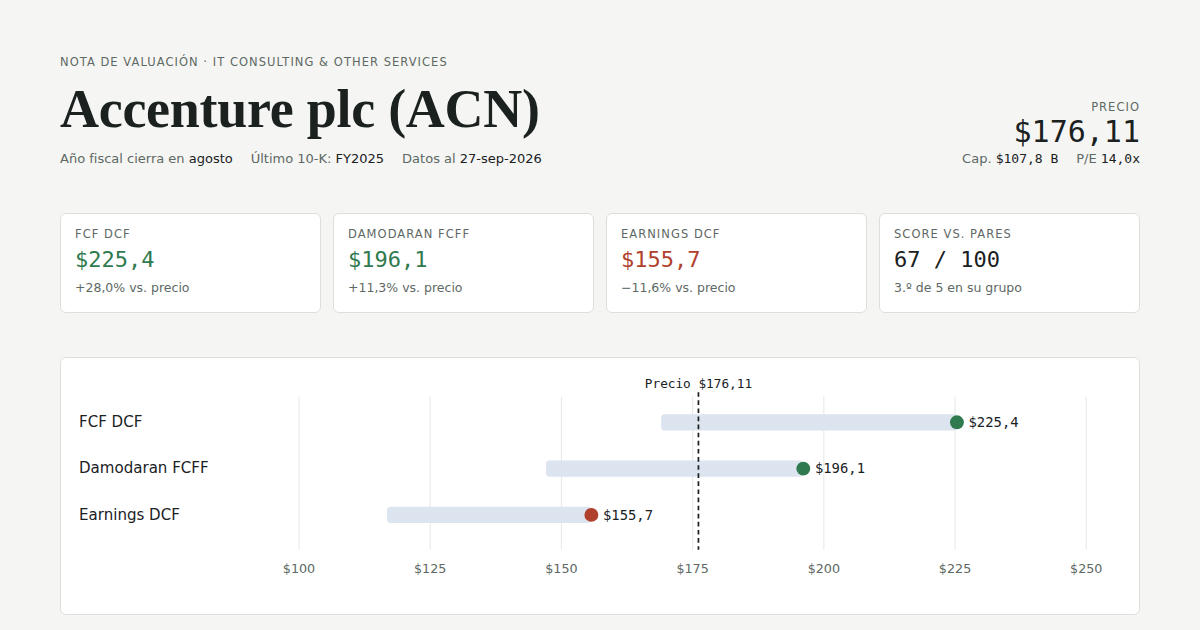
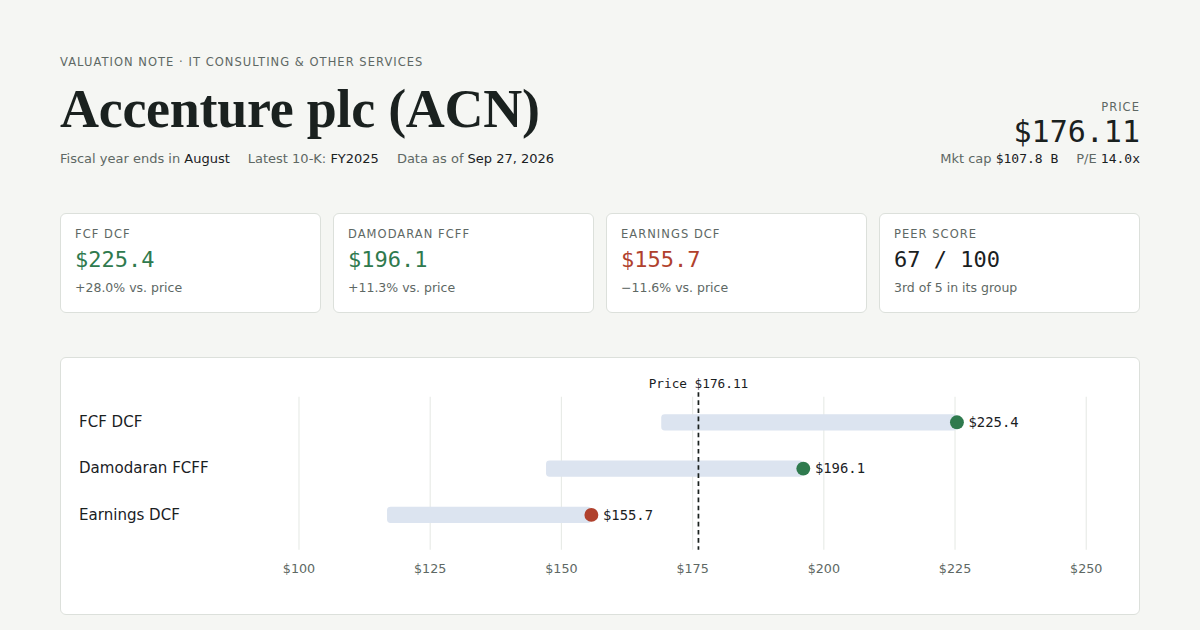
ACN: English version at /acn/, Spanish moved to /acn/es/
English note with English X preview image (og.png) at the main URL;
Spanish note and its preview image at /acn/es/. Language links on both.

Claude-Session: https://claude.ai/code/session_01N6sXCgufwUHhqsWzpkhP7s

diff --git a/acn/es/index.html b/acn/es/index.html
@@ -1,24 +1,24 @@
 <!doctype html>
-<html lang="en">
+<html lang="es">
 <head>
 <meta charset="utf-8">
 <meta name="viewport" content="width=device-width, initial-scale=1">
-<meta name="description" content="Accenture DCF valuation: three models, what the price implies, sensitivity and peer comparison. SEC data as of Sep 27, 2026.">
+<meta name="description" content="Valuación DCF de Accenture: tres modelos, qué descuenta el precio, sensibilidad y comparación contra competidores. Datos SEC al 27-sep-2026.">
 <meta property="og:type" content="article">
-<meta property="og:title" content="Accenture (ACN): DCF valuation note">
-<meta property="og:description" content="Value between $196 and $225 vs. a $176 price. The market is pricing in FCF starting to fall 8% a year.">
-<meta property="og:image" content="https://monkib.github.io/acn/og.png">
+<meta property="og:title" content="Accenture (ACN): nota de valuación DCF">
+<meta property="og:description" content="Valor entre $196 y $225 vs. precio $176. El mercado descuenta que el FCF arranque cayendo 8% anual.">
+<meta property="og:image" content="https://monkib.github.io/acn/es/og.png">
 <meta property="og:image:width" content="1200">
 <meta property="og:image:height" content="630">
-<meta property="og:url" content="https://monkib.github.io/acn/">
+<meta property="og:url" content="https://monkib.github.io/acn/es/">
 <meta name="twitter:card" content="summary_large_image">
-<meta name="twitter:title" content="Accenture (ACN): DCF valuation note">
-<meta name="twitter:description" content="Value between $196 and $225 vs. a $176 price. The market is pricing in FCF starting to fall 8% a year.">
-<meta name="twitter:image" content="https://monkib.github.io/acn/og.png">
-<title>Accenture (ACN) Valuation Note</title>
+<meta name="twitter:title" content="Accenture (ACN): nota de valuación DCF">
+<meta name="twitter:description" content="Valor entre $196 y $225 vs. precio $176. El mercado descuenta que el FCF arranque cayendo 8% anual.">
+<meta name="twitter:image" content="https://monkib.github.io/acn/es/og.png">
+<title>Accenture (ACN) — Nota de valuación</title>
 <link rel="preconnect" href="https://fonts.googleapis.com">
 <link rel="preconnect" href="https://fonts.gstatic.com" crossorigin>
-<link rel="stylesheet" href="https://fonts.googleapis.com/css2?family=Newsreader:opsz,wght@6..72.500;6..72.600&family=IBM+Plex+Sans:wght@400;500;600&family=IBM+Plex+Mono:wght@400;500&display=swap">
+<link rel="stylesheet" href="https://fonts.googleapis.com/css2?family=Newsreader:opsz,wght@6..72,500;6..72,600&family=IBM+Plex+Sans:wght@400;500;600&family=IBM+Plex+Mono:wght@400;500&display=swap">
 <style>
 :root{
   --paper:#F5F6F3; --card:#FFFFFF; --ink:#1A211F; --muted:#5E6864; --faint:#8B9591;
@@ -122,78 +122,78 @@ footer{font-size:12.5px;color:var(--muted);border-top:1px solid var(--rule);padd
 
 
 <div class="wrap">
-<p class="lang">English · <a href="es/">Español</a></p>
-<p class="disclaimer"><b>Disclaimer.</b> This note is for information and education only. It is not investment advice or a recommendation to buy, sell or hold. The models rest on assumptions and may be wrong. Data as of Sep 27, 2026.</p>
+<p class="lang"><a href="../">English</a> · Español</p>
+<p class="disclaimer"><b>Disclaimer.</b> Esta nota es informativa y educativa. No es asesoramiento ni recomendación de compra, venta o tenencia. Los modelos dependen de supuestos y pueden estar equivocados. Datos al 27-sep-2026.</p>
 
 <header>
   <div style="display:flex;flex-direction:column;gap:10px">
-    <div class="eyebrow">Valuation note · IT Consulting &amp; Other Services</div>
+    <div class="eyebrow">Nota de valuación · IT Consulting &amp; Other Services</div>
     <h1>Accenture plc (ACN)</h1>
     <div class="meta">
-      <span>Fiscal year ends in <b>August</b></span>
-      <span>Latest 10-K: <b>FY2025</b></span>
-      <span>Data as of <b>Sep 27, 2026</b></span>
+      <span>Año fiscal cierra en <b>agosto</b></span>
+      <span>Último 10-K: <b>FY2025</b></span>
+      <span>Datos al <b>27-sep-2026</b></span>
     </div>
   </div>
   <div class="quote">
-    <span class="eyebrow">Price</span>
-    <span class="px num">$176.11</span>
-    <span class="meta" style="justify-content:flex-end"><span>Mkt cap <b class="num">$107.8 B</b></span><span>P/E <b class="num">14.0x</b></span></span>
+    <span class="eyebrow">Precio</span>
+    <span class="px num">$176,11</span>
+    <span class="meta" style="justify-content:flex-end"><span>Cap. <b class="num">$107,8 B</b></span><span>P/E <b class="num">14,0x</b></span></span>
   </div>
 </header>
 
 <section>
-  <p class="lede">The cash-flow models put value between <b class="num">$196</b> and <b class="num">$225</b>, 11% to 28% above the price. The earnings model gives <b class="num">$156</b>, 12% below. At the model's WACC, today's price implies free cash flow <b>starting to fall 8% a year</b> and only converging to +2.5% by year five. Over the last decade FCF grew 11.4% a year, and its worst year was −5.8% (FY2024). Net cash on the balance sheet, 1.4x earnings-to-cash conversion and the highest ROIC in its peer group.</p>
+  <p class="lede">Los modelos de flujo de caja ubican el valor entre <b class="num">$196</b> y <b class="num">$225</b>, entre 11% y 28% sobre el precio. El modelo por ganancias da <b class="num">$156</b>, 12% abajo. Con el WACC del modelo, el precio actual descuenta que el flujo de caja libre <b>arranque cayendo 8% anual</b> y recién converja a +2,5% al quinto año. En la última década el FCF creció 11,4% anual y su peor año fue −5,8% (FY2024). Balance con caja neta, conversión de ganancias a caja de 1,4x y el mayor ROIC de su grupo.</p>
   <div class="thesis">
-    <div class="kpi"><span class="eyebrow">FCF DCF</span><span class="v num pos">$225.4</span><span class="d">+28.0% vs. price</span></div>
-    <div class="kpi"><span class="eyebrow">Damodaran FCFF</span><span class="v num pos">$196.1</span><span class="d">+11.3% vs. price</span></div>
-    <div class="kpi"><span class="eyebrow">Earnings DCF</span><span class="v num neg">$155.7</span><span class="d">−11.6% vs. price</span></div>
-    <div class="kpi"><span class="eyebrow">Peer score</span><span class="v num">67 / 100</span><span class="d">3rd of 5 in its group</span></div>
+    <div class="kpi"><span class="eyebrow">FCF DCF</span><span class="v num pos">$225,4</span><span class="d">+28,0% vs. precio</span></div>
+    <div class="kpi"><span class="eyebrow">Damodaran FCFF</span><span class="v num pos">$196,1</span><span class="d">+11,3% vs. precio</span></div>
+    <div class="kpi"><span class="eyebrow">Earnings DCF</span><span class="v num neg">$155,7</span><span class="d">−11,6% vs. precio</span></div>
+    <div class="kpi"><span class="eyebrow">Score vs. pares</span><span class="v num">67 / 100</span><span class="d">3.º de 5 en su grupo</span></div>
   </div>
 </section>
 
 <section>
   <div class="sec-head">
-    <div class="eyebrow">1 · Valuation</div>
-    <h2>Three models, one value range</h2>
-    <p class="muted">Each bar runs from the margin-of-safety price (−25%) to intrinsic value. The vertical line is the current price.</p>
+    <div class="eyebrow">1 · Valuación</div>
+    <h2>Tres modelos, una zona de valor</h2>
+    <p class="muted">Cada barra va del precio con margen de seguridad (−25%) al valor intrínseco. La línea vertical es el precio.</p>
   </div>
   <div class="card">
     <svg id="range" viewBox="0 0 900 190" role="img" aria-label="Rango de valor por modelo frente al precio"></svg>
   </div>
   <div class="tbl-wrap card" style="padding:0">
     <table>
-      <thead><tr><th>Model</th><th>Intrinsic value</th><th>With 25% margin</th><th>Upside</th><th>Discount rate</th><th>Initial growth</th><th>Terminal value %</th></tr></thead>
+      <thead><tr><th>Modelo</th><th>Valor intrínseco</th><th>Con margen 25%</th><th>Upside</th><th>Tasa de descuento</th><th>Crecimiento inicial</th><th>% valor terminal</th></tr></thead>
       <tbody>
-        <tr><td class="txt">FCF DCF (= normalized)</td><td>$225.36</td><td>$169.02</td><td><span class="pill pos">+28.0%</span></td><td>8.72% WACC</td><td>5.7%</td><td>74.7%</td></tr>
-        <tr><td class="txt">Damodaran FCFF</td><td>$196.09</td><td>$147.07</td><td><span class="pill pos">+11.3%</span></td><td>8.72% WACC</td><td>5.7%</td><td>54.7%</td></tr>
-        <tr><td class="txt">Earnings DCF</td><td>$155.71</td><td>$116.78</td><td><span class="pill neg">−11.6%</span></td><td>12.0%</td><td>7.8%</td><td>—</td></tr>
+        <tr><td class="txt">FCF DCF (= normalizado)</td><td>$225,36</td><td>$169,02</td><td><span class="pill pos">+28,0%</span></td><td>8,72% WACC</td><td>5,7%</td><td>74,7%</td></tr>
+        <tr><td class="txt">Damodaran FCFF</td><td>$196,09</td><td>$147,07</td><td><span class="pill pos">+11,3%</span></td><td>8,72% WACC</td><td>5,7%</td><td>54,7%</td></tr>
+        <tr><td class="txt">Earnings DCF</td><td>$155,71</td><td>$116,78</td><td><span class="pill neg">−11,6%</span></td><td>12,0%</td><td>7,8%</td><td>—</td></tr>
       </tbody>
     </table>
   </div>
   <div class="two">
     <div class="card" style="display:flex;flex-direction:column;gap:10px">
-      <h3>WACC 8.72%</h3>
+      <h3>WACC 8,72%</h3>
       <div class="tbl-wrap"><table>
         <tbody>
-          <tr><td class="txt">Risk-free rate (10y UST)</td><td>5.18%</td></tr>
-          <tr><td class="txt">Beta · equity risk premium</td><td>0.69 · 5.5%</td></tr>
-          <tr><td class="txt">Cost of equity</td><td>8.98%</td></tr>
-          <tr><td class="txt">After-tax cost of debt</td><td>3.39%</td></tr>
-          <tr><td class="txt">Equity / debt weight</td><td>95.4% / 4.6%</td></tr>
+          <tr><td class="txt">Tasa libre de riesgo (UST 10a)</td><td>5,18%</td></tr>
+          <tr><td class="txt">Beta · prima de riesgo</td><td>0,69 · 5,5%</td></tr>
+          <tr><td class="txt">Costo del equity</td><td>8,98%</td></tr>
+          <tr><td class="txt">Costo de deuda neto de impuestos</td><td>3,39%</td></tr>
+          <tr><td class="txt">Peso equity / deuda</td><td>95,4% / 4,6%</td></tr>
         </tbody>
       </table></div>
     </div>
     <div class="card" style="display:flex;flex-direction:column;gap:10px">
-      <h3>From enterprise value to value per share</h3>
+      <h3>Del valor empresa al valor por acción</h3>
       <div class="tbl-wrap"><table>
         <tbody>
-          <tr><td class="txt">PV of FCF, years 1–5</td><td>$33.5 B</td></tr>
-          <tr><td class="txt">PV of terminal value</td><td>$99.1 B</td></tr>
-          <tr><td class="txt">+ Cash and investments</td><td>$11.5 B</td></tr>
-          <tr><td class="txt">− Total debt</td><td>$5.1 B</td></tr>
-          <tr><td class="txt">− Minority interest</td><td>$1.0 B</td></tr>
-          <tr><td class="txt">÷ Shares</td><td>612 M</td></tr>
+          <tr><td class="txt">VP de los FCF años 1–5</td><td>$33,5 B</td></tr>
+          <tr><td class="txt">VP del valor terminal</td><td>$99,1 B</td></tr>
+          <tr><td class="txt">+ Caja e inversiones</td><td>$11,5 B</td></tr>
+          <tr><td class="txt">− Deuda total</td><td>$5,1 B</td></tr>
+          <tr><td class="txt">− Interés minoritario</td><td>$1,0 B</td></tr>
+          <tr><td class="txt">÷ Acciones</td><td>612 M</td></tr>
         </tbody>
       </table></div>
     </div>
@@ -202,117 +202,117 @@ footer{font-size:12.5px;color:var(--muted);border-top:1px solid var(--rule);padd
 
 <section>
   <div class="sec-head">
-    <div class="eyebrow">2 · What the price implies</div>
-    <h2>The market assumes cash flow will decline</h2>
-    <p class="muted">Reverse DCF: the growth rate that makes each model worth exactly $176.11.</p>
+    <div class="eyebrow">2 · Qué descuenta el precio</div>
+    <h2>El mercado supone una caída del flujo de caja</h2>
+    <p class="muted">DCF inverso: el crecimiento que hace que cada modelo valga exactamente $176,11.</p>
   </div>
   <div class="tbl-wrap card" style="padding:0">
     <table>
-      <thead><tr><th>Model</th><th>Implied growth</th><th>Historical</th><th>Reading</th></tr></thead>
+      <thead><tr><th>Modelo</th><th>Crecimiento implícito</th><th>Histórico</th><th>Lectura</th></tr></thead>
       <tbody>
-        <tr><td class="txt">FCF DCF</td><td><span class="pill neg">−8.0% a year</span></td><td>FCF +11.4% a year 2016–25</td><td class="txt">Declining FCF, converging to +2.5% by year 5</td></tr>
-        <tr><td class="txt">Damodaran FCFF</td><td><span class="pill warn">+2.8% a year</span></td><td>Revenue +9.5% a year, 5y</td><td class="txt">Growth close to inflation</td></tr>
-        <tr><td class="txt">Earnings DCF (12% discount)</td><td><span class="pill warn">+9.7% a year</span></td><td>EPS +7.8% (CAGR used)</td><td class="txt">Somewhat above history</td></tr>
+        <tr><td class="txt">FCF DCF</td><td><span class="pill neg">−8,0% anual</span></td><td>FCF +11,4% anual 2016–25</td><td class="txt">FCF en retroceso, convergiendo a +2,5% al año 5</td></tr>
+        <tr><td class="txt">Damodaran FCFF</td><td><span class="pill warn">+2,8% anual</span></td><td>Ingresos +9,5% anual 5a</td><td class="txt">Crecimiento cercano a la inflación</td></tr>
+        <tr><td class="txt">Earnings DCF (descuento 12%)</td><td><span class="pill warn">+9,7% anual</span></td><td>BPA +7,8% (CAGR usado)</td><td class="txt">Algo por encima del histórico</td></tr>
       </tbody>
     </table>
   </div>
-  <p>The three models read differently because they use different discount rates. At a 12% discount rate, the price requires more earnings growth than the company has delivered. At 8.7%, the price is consistent with declining FCF. The investment question is which of those scenarios is more likely, not which intrinsic value number is right.</p>
+  <p>Los tres modelos dan lecturas distintas porque usan tasas distintas. Con 12% de descuento, el precio exige más crecimiento de ganancias que el histórico. Con 8,7%, el precio es compatible con un FCF en retroceso. La pregunta de inversión es cuál de los dos escenarios es más probable, no qué número de valor intrínseco es el correcto.</p>
 </section>
 
 <section>
   <div class="sec-head">
-    <div class="eyebrow">3 · Sensitivity</div>
-    <h2>Value per share by WACC and terminal growth</h2>
-    <p class="muted">FCF DCF. Green: above the price. Red: below. Outlined: base case (8.5–9% and 2.5%).</p>
+    <div class="eyebrow">3 · Sensibilidad</div>
+    <h2>Valor por acción según WACC y crecimiento terminal</h2>
+    <p class="muted">FCF DCF. Verde: por encima del precio. Rojo: por debajo. Recuadro: caso base (8,5–9% y 2,5%).</p>
   </div>
   <div class="tbl-wrap card" style="padding:0">
     <table class="sens" id="sens"></table>
   </div>
-  <p>With WACC up to 9.5%, value stays above the price across the whole grid. It falls below with a 10% WACC and 1.5% terminal growth, or with an 11% WACC and terminal growth of 2.5% or less.</p>
+  <p>Con WACC de hasta 9,5% el valor queda por encima del precio en toda la grilla. Queda por debajo con WACC de 10% y crecimiento terminal de 1,5%, o con WACC de 11% y crecimiento terminal de 2,5% o menos.</p>
 </section>
 
 <section>
   <div class="sec-head">
     <div class="eyebrow">4 · Cash flow</div>
-    <h2>How the cash is generated</h2>
-    <p class="muted">USD billions, fiscal years. FCF net of stock-based compensation (SBC).</p>
+    <h2>Cómo se genera la caja</h2>
+    <p class="muted">Miles de millones de USD, años fiscales. FCF neto de compensación en acciones (SBC).</p>
   </div>
   <div class="card" style="display:flex;flex-direction:column;gap:10px">
-    <div class="legend"><span><i class="sw" style="background:var(--bar)"></i>Revenue (left axis)</span><span><i class="sw" style="background:var(--bar2)"></i>FCF net of SBC (right axis)</span></div>
+    <div class="legend"><span><i class="sw" style="background:var(--bar)"></i>Ingresos (eje izq.)</span><span><i class="sw" style="background:var(--bar2)"></i>FCF neto de SBC (eje der.)</span></div>
     <svg id="cash" viewBox="0 0 900 260" role="img" aria-label="Ingresos y FCF 2016-2025"></svg>
   </div>
   <div class="tbl-wrap card" style="padding:0">
     <table>
       <thead><tr><th>USD B</th><th>2021</th><th>2022</th><th>2023</th><th>2024</th><th>2025</th></tr></thead>
       <tbody>
-        <tr><td class="txt">Operating cash flow</td><td>8.98</td><td>9.54</td><td>9.52</td><td>9.13</td><td>11.47</td></tr>
-        <tr><td class="txt">− CapEx</td><td>0.58</td><td>0.72</td><td>0.53</td><td>0.52</td><td>0.60</td></tr>
-        <tr><td class="txt">− SBC</td><td>1.34</td><td>1.68</td><td>1.91</td><td>1.94</td><td>2.09</td></tr>
-        <tr><td class="txt"><b>FCF net of SBC</b></td><td>7.05</td><td>7.14</td><td>7.08</td><td>6.67</td><td>8.78</td></tr>
-        <tr><td class="txt">Net income</td><td>5.91</td><td>6.88</td><td>6.87</td><td>7.26</td><td>7.68</td></tr>
+        <tr><td class="txt">Flujo operativo</td><td>8,98</td><td>9,54</td><td>9,52</td><td>9,13</td><td>11,47</td></tr>
+        <tr><td class="txt">− CapEx</td><td>0,58</td><td>0,72</td><td>0,53</td><td>0,52</td><td>0,60</td></tr>
+        <tr><td class="txt">− SBC</td><td>1,34</td><td>1,68</td><td>1,91</td><td>1,94</td><td>2,09</td></tr>
+        <tr><td class="txt"><b>FCF neto de SBC</b></td><td>7,05</td><td>7,14</td><td>7,08</td><td>6,67</td><td>8,78</td></tr>
+        <tr><td class="txt">Utilidad neta</td><td>5,91</td><td>6,88</td><td>6,87</td><td>7,26</td><td>7,68</td></tr>
       </tbody>
     </table>
   </div>
-  <p>An asset-light model: CapEx is under 1% of revenue. The real cost to shareholders is SBC, which rose from $0.8 B to $2.1 B in ten years and now equals 18% of operating cash flow, above the peer median (13%). FCF was flat from 2021 to 2024 and picked up in 2025.</p>
+  <p>Modelo de bajo capital: el CapEx es menor al 1% de los ingresos. El costo real para el accionista es la SBC, que subió de $0,8 B a $2,1 B en diez años y hoy equivale al 18% del flujo operativo, por encima de la mediana del grupo (13%). El FCF estuvo estancado entre 2021 y 2024 y repuntó en 2025.</p>
 </section>
 
 <section>
   <div class="sec-head">
-    <div class="eyebrow">5 · Debt and durability</div>
-    <h2>Net cash and high, declining returns</h2>
+    <div class="eyebrow">5 · Deuda y sostenibilidad</div>
+    <h2>Caja neta y retornos altos, en descenso</h2>
   </div>
   <div class="two">
     <div class="card" style="display:flex;flex-direction:column;gap:10px">
-      <h3>Total debt vs. cash</h3>
-      <div class="legend"><span><i class="sw" style="background:var(--bar)"></i>Cash and investments</span><span><i class="sw" style="background:var(--neg)"></i>Total debt</span></div>
+      <h3>Deuda total vs. caja</h3>
+      <div class="legend"><span><i class="sw" style="background:var(--bar)"></i>Caja e inversiones</span><span><i class="sw" style="background:var(--neg)"></i>Deuda total</span></div>
       <svg id="debt" viewBox="0 0 440 220" role="img" aria-label="Deuda y caja 2016-2025"></svg>
-      <p class="muted" style="font-size:13px">It issued about $5 B of debt in FY2025. It still holds $6.3 B of net cash (net debt/EBITDA −0.58x) and covers its interest 45 times.</p>
+      <p class="muted" style="font-size:13px">En FY2025 emitió cerca de $5 B de deuda. Aun así mantiene caja neta de $6,3 B (deuda neta/EBITDA −0,58x) y cubre sus intereses 45 veces.</p>
     </div>
     <div class="card" style="display:flex;flex-direction:column;gap:10px">
-      <h3>ROIC and operating margin</h3>
-      <div class="legend"><span><i class="sw" style="background:var(--bar2)"></i>ROIC</span><span><i class="sw" style="background:var(--warn)"></i>Operating margin</span></div>
+      <h3>ROIC y margen operativo</h3>
+      <div class="legend"><span><i class="sw" style="background:var(--bar2)"></i>ROIC</span><span><i class="sw" style="background:var(--warn)"></i>Margen operativo</span></div>
       <svg id="roic" viewBox="0 0 440 220" role="img" aria-label="ROIC y margen operativo 2016-2025"></svg>
-      <p class="muted" style="font-size:13px">Operating margin is very stable (12.6–15.2%). ROIC fell from 55% to 30% as invested capital grew with acquisitions; it is still 3.4 times the WACC.</p>
+      <p class="muted" style="font-size:13px">El margen operativo es muy estable (12,6–15,2%). El ROIC bajó de 55% a 30% porque el capital invertido creció con adquisiciones; sigue 3,4 veces por encima del WACC.</p>
     </div>
   </div>
 </section>
 
 <section>
   <div class="sec-head">
-    <div class="eyebrow">6 · Peers</div>
-    <h2>Against its group: IT Consulting &amp; Other Services</h2>
-    <p class="muted">Percentile within the group (100 = best). Small group: 5 companies.</p>
+    <div class="eyebrow">6 · Competidores</div>
+    <h2>Contra su grupo: IT Consulting &amp; Other Services</h2>
+    <p class="muted">Percentil dentro del grupo (100 = mejor). Grupo chico: 5 empresas.</p>
   </div>
   <div class="card scores" id="scores"></div>
   <div class="tbl-wrap card" style="padding:0">
     <table>
-      <thead><tr><th>Company</th><th>Overall</th><th>Debt</th><th>Cash flow</th><th>Durability</th><th>Valuation</th><th>ND/EBITDA</th><th>ROIC 10y</th><th>FCF margin 5y</th><th>FCF yield</th><th>P/E</th><th>Revenue CAGR 5y</th></tr></thead>
+      <thead><tr><th>Empresa</th><th>Global</th><th>Deuda</th><th>Cash flow</th><th>Sostenib.</th><th>Valuación</th><th>DN/EBITDA</th><th>ROIC 10a</th><th>Margen FCF 5a</th><th>FCF yield</th><th>P/E</th><th>CAGR ingresos 5a</th></tr></thead>
       <tbody id="peers"></tbody>
     </table>
   </div>
-  <p>ACN has the highest ROIC and the most stable operating margin in the group, and trades at a lower P/E than the median (14.0x vs. 16.1x). It loses points on SBC and on its recent debt issuance. CTSH and EPAM rank above it overall on better debt and valuation scores.</p>
+  <p>ACN tiene el mayor ROIC y el margen operativo más estable del grupo, y cotiza a un P/E menor que la mediana (14,0x vs. 16,1x). Pierde puntos por la SBC y por la emisión de deuda reciente. CTSH y EPAM quedan arriba en el puntaje global por mejores puntajes en deuda y valuación.</p>
 </section>
 
 <section>
   <div class="sec-head">
-    <div class="eyebrow">7 · Assumptions and limitations</div>
-    <h2>What to keep in mind</h2>
+    <div class="eyebrow">7 · Supuestos y limitaciones</div>
+    <h2>Qué hay que tener en cuenta</h2>
   </div>
   <ul class="notes">
-    <li>75% of the FCF DCF value comes from the terminal value. The result depends heavily on long-term growth (2.5%) and on the WACC.</li>
-    <li>FCF DCF and normalized FCF are identical because depreciation exceeds CapEx, so all CapEx is treated as maintenance.</li>
-    <li>The FCF DCF base is the 3-year average of FCF before interest and net of SBC: $7.6 B.</li>
-    <li>The Earnings DCF uses a fixed 12% rate (risk-free rate rounded up to 6%, plus 6%), stricter than the WACC. That is why it gives the lowest value.</li>
-    <li>The 10-year median ROIC (52%) is inflated by the early years, when invested capital was small. The recent figure (30%) is more representative.</li>
-    <li>The "debt growth vs. EBITDA growth" metric looks very poor because debt started from almost zero. It does not indicate excessive leverage.</li>
-    <li>Dividends paid are missing from SEC data since FY2023 (an accounting tag change). This does not affect the models.</li>
-    <li>Price, beta and market cap are as of Sep 27, 2026 (Yahoo Finance). Financial statements come from 10-K filings with the SEC.</li>
+    <li>El 75% del valor del FCF DCF sale del valor terminal. El resultado depende mucho del crecimiento a largo plazo (2,5%) y del WACC.</li>
+    <li>FCF DCF y FCF normalizado coinciden porque la depreciación supera al CapEx: todo el CapEx se trata como de mantenimiento.</li>
+    <li>La base del FCF DCF es el promedio de 3 años del FCF antes de intereses y neto de SBC: $7,6 B.</li>
+    <li>El Earnings DCF usa una tasa fija de 12% (tasa libre de riesgo redondeada a 6% + 6%), más exigente que el WACC. Por eso da el valor más bajo.</li>
+    <li>El ROIC mediano de 10 años (52%) está inflado por los primeros años, con poco capital invertido. El dato reciente (30%) es más representativo.</li>
+    <li>La métrica "crecimiento de deuda vs. EBITDA" sale muy negativa porque la deuda partió de casi cero. No indica apalancamiento excesivo.</li>
+    <li>Los dividendos pagados no figuran desde FY2023 en los datos de la SEC (cambio de etiqueta contable). No afecta a los modelos.</li>
+    <li>El precio, la beta y la capitalización son del 27-sep-2026 (Yahoo Finance). Los estados financieros salen de los 10-K presentados ante la SEC.</li>
   </ul>
 </section>
 
 <footer>
-  <span>Sources: SEC EDGAR (10-K FY2016–FY2025), Yahoo Finance (price and beta), 10-year UST (^TNX). Own DCF model, data as of Sep 27, 2026.</span>
-  <span>For information only. Not investment advice.</span>
+  <span>Fuentes: SEC EDGAR (10-K FY2016–FY2025), Yahoo Finance (precio y beta), UST 10 años (^TNX). Modelo propio de DCF con datos al 27-sep-2026.</span>
+  <span>Análisis con fines informativos. No es una recomendación de inversión.</span>
 </footer>
 </div>
 
@@ -321,7 +321,7 @@ footer{font-size:12.5px;color:var(--muted);border-top:1px solid var(--rule);padd
 const S={"years":[2016,2017,2018,2019,2020,2021,2022,2023,2024,2025],"revenue":[34.8,36.77,41.6,43.22,44.33,50.53,61.59,64.11,64.9,69.67],"fcf":[3.32,3.66,4.43,4.93,6.42,7.05,7.14,7.08,6.67,8.78],"opm":[0.1382,0.126,0.1404,0.1459,0.1469,0.1508,0.1521,0.1374,0.1479,0.1468],"roic":[1.1143,0.6433,0.7378,0.5587,0.5489,0.4891,0.4757,0.3828,0.29,0.2996],"debt":[0.03,0.03,0.03,0.02,0.06,0.07,0.06,0.15,1.02,5.15],"cash":[4.91,4.13,5.06,6.13,8.51,8.17,7.89,9.05,5.01,11.48]};
 const NS="http://www.w3.org/2000/svg";
 const el=(tag,attrs,parent,text)=>{const e=document.createElementNS(NS,tag);for(const k in attrs)e.setAttribute(k,attrs[k]);if(text!=null)e.textContent=text;parent&&parent.appendChild(e);return e;};
-const fmt=(v,d=1)=>v.toLocaleString("en-US",{minimumFractionDigits:d,maximumFractionDigits:d});
+const fmt=(v,d=1)=>v.toLocaleString("es-AR",{minimumFractionDigits:d,maximumFractionDigits:d});
 
 /* 1. range chart */
 (function(){
@@ -338,7 +338,7 @@ const fmt=(v,d=1)=>v.toLocaleString("en-US",{minimumFractionDigits:d,maximumFrac
     el("text",{x:x(r[2])+10,y:y+4,class:"lbl"},svg,"$"+fmt(r[2]));
   });
   el("line",{x1:x(price),x2:x(price),y1:14,y2:150,stroke:"var(--ink)","stroke-width":1.5,"stroke-dasharray":"4 3"},svg);
-  el("text",{x:x(price),y:10,"text-anchor":"middle",style:"fill:var(--ink);font:500 11px var(--mono)"},svg,"Price $176.11");
+  el("text",{x:x(price),y:10,"text-anchor":"middle",style:"fill:var(--ink);font:500 11px var(--mono)"},svg,"Precio $176,11");
 })();
 
 /* 3. sensitivity */
@@ -346,7 +346,7 @@ const fmt=(v,d=1)=>v.toLocaleString("en-US",{minimumFractionDigits:d,maximumFrac
   const W=[7,7.5,8,8.5,9,9.5,10,11], G=[1.5,2,2.5,3,3.5];
   const M=[[256.1,279.6,308.5,344.5,390.8],[235.4,254.9,278.4,307.1,342.9],[217.9,234.3,253.8,277.2,305.7],[202.9,216.9,233.3,252.7,276.0],[189.8,202.0,216.0,232.3,251.6],[178.5,189.1,201.1,215.1,231.4],[168.4,177.7,188.3,200.3,214.2],[151.5,158.9,167.1,176.3,186.7]];
   const t=document.getElementById("sens"), price=176.11;
-  let h="<thead><tr><th>WACC \\ terminal g</th>"+G.map(g=>"<th>"+fmt(g)+"%</th>").join("")+"</tr></thead><tbody>";
+  let h="<thead><tr><th>WACC \\ g terminal</th>"+G.map(g=>"<th>"+fmt(g)+"%</th>").join("")+"</tr></thead><tbody>";
   M.forEach((row,i)=>{
     h+="<tr><td>"+fmt(W[i])+"%</td>"+row.map((v,j)=>{
       const base=(W[i]===8.5||W[i]===9)&&G[j]===2.5;
@@ -361,7 +361,7 @@ const fmt=(v,d=1)=>v.toLocaleString("en-US",{minimumFractionDigits:d,maximumFrac
   const svg=document.getElementById("cash");
   const L=48,R=852,T=14,B=220,n=S.years.length,bw=(R-L)/n;
   const yL=v=>B-(v/80)*(B-T), yR=v=>B-(v/10)*(B-T);
-  for(let t=0;t<=80;t+=20){el("line",{x1:L,x2:R,y1:yL(t),y2:yL(t),stroke:"var(--grid)"},svg);el("text",{x:L-8,y:yL(t)+4,"text-anchor":"end"},svg,t);el("text",{x:R+8,y:yL(t)+4},svg,fmt(t/8,1).replace(".0",""));}
+  for(let t=0;t<=80;t+=20){el("line",{x1:L,x2:R,y1:yL(t),y2:yL(t),stroke:"var(--grid)"},svg);el("text",{x:L-8,y:yL(t)+4,"text-anchor":"end"},svg,t);el("text",{x:R+8,y:yL(t)+4},svg,fmt(t/8,1).replace(",0",""));}
   S.years.forEach((yr,i)=>{
     const cx=L+bw*i+bw/2;
     el("rect",{x:cx-bw*0.34,y:yL(S.revenue[i]),width:bw*0.32,height:B-yL(S.revenue[i]),fill:"var(--bar)"},svg);
@@ -395,16 +395,16 @@ const fmt=(v,d=1)=>v.toLocaleString("en-US",{minimumFractionDigits:d,maximumFrac
   for(let t=0;t<=1.2001;t+=0.3){el("line",{x1:L,x2:R,y1:y(t),y2:y(t),stroke:"var(--grid)"},svg);el("text",{x:L-6,y:y(t)+4,"text-anchor":"end"},svg,Math.round(t*100)+"%");}
   const path=(arr,col)=>{el("path",{d:arr.map((v,i)=>(i?"L":"M")+x(i)+" "+y(v)).join(" "),fill:"none",stroke:col,"stroke-width":2.2},svg);el("circle",{cx:x(n-1),cy:y(arr[n-1]),r:4,fill:col},svg);};
   el("line",{x1:L,x2:R,y1:y(0.0872),y2:y(0.0872),stroke:"var(--faint)","stroke-dasharray":"3 3"},svg);
-  el("text",{x:L+4,y:y(0.0872)+14},svg,"WACC 8.7%");
+  el("text",{x:L+4,y:y(0.0872)+14},svg,"WACC 8,7%");
   path(S.roic,"var(--bar2)");path(S.opm,"var(--warn)");
   el("text",{x:x(n-1)-6,y:y(S.roic[n-1])-9,"text-anchor":"end",class:"lbl"},svg,"30%");
-  el("text",{x:x(n-1)-6,y:y(S.opm[n-1])+18,"text-anchor":"end",class:"lbl"},svg,"14.7%");
+  el("text",{x:x(n-1)-6,y:y(S.opm[n-1])+18,"text-anchor":"end",class:"lbl"},svg,"14,7%");
   S.years.forEach((yr,i)=>{if(i%3===0||i===n-1)el("text",{x:x(i),y:B+18,"text-anchor":"middle"},svg,"FY"+String(yr).slice(2));});
 })();
 
 /* 6. scores + peers */
 (function(){
-  const sc=[["Overall",67],["Debt",58],["Cash flow",64],["Durability",76],["Valuation",68]];
+  const sc=[["Global",67],["Deuda",58],["Cash flow",64],["Sostenibilidad",76],["Valuación",68]];
   document.getElementById("scores").innerHTML=sc.map(([k,v])=>'<div class="score"><span class="eyebrow">'+k+'</span><span class="num" style="font-size:20px">'+v+'</span><div class="meter"><span style="width:'+v+'%"></span></div></div>').join("");
   const P=[["CTSH","Cognizant",71,87,58,60,78,-0.34,0.215,0.102,0.086,12.6,0.049],["EPAM","EPAM Systems",69,90,37,68,82,-1.97,0.323,0.080,0.072,16.1,0.155],["ACN","Accenture",67,58,64,76,68,-0.58,0.519,0.116,0.081,14.0,0.095],["IT","Gartner",58,50,70,60,50,1.02,0.399,null,null,19.5,0.096],["IBM","IBM",42,28,81,36,22,10.65,0.013,0.170,0.049,20.2,-0.017]];
   const pct=v=>v==null?"—":fmt(v*100)+"%", x=v=>v==null?"—":fmt(v)+"x";
